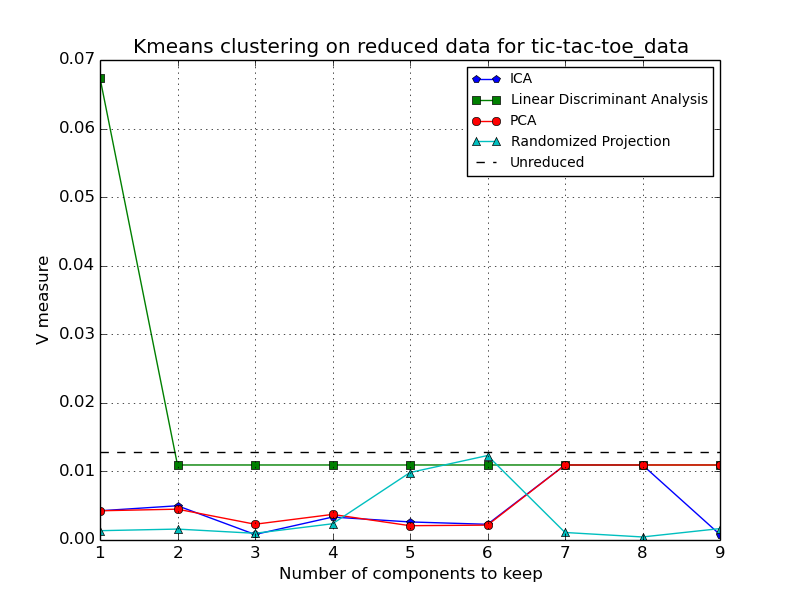
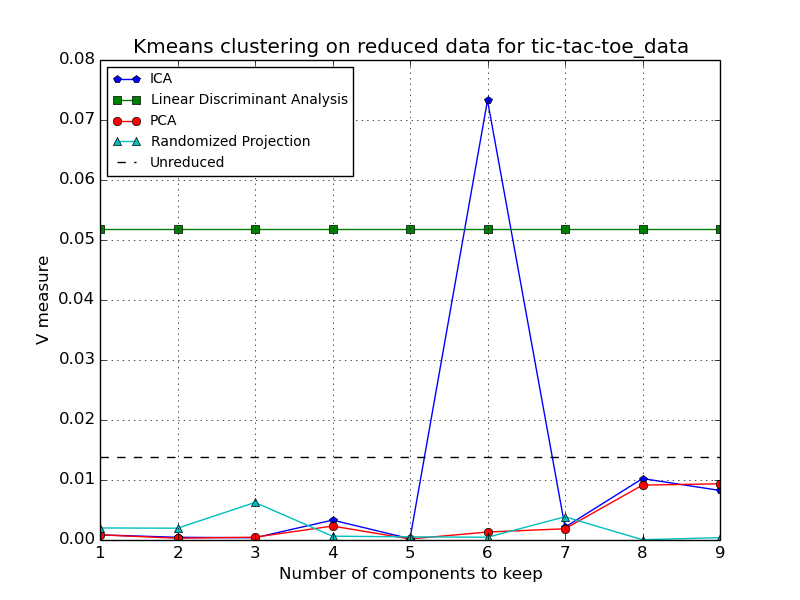
fixed a bug

diff --git a/proj3/experiments.py b/proj3/experiments.py
@@ -251,6 +251,108 @@ def exp3(dataset, n_classes, x, y, ns):
     plt.legend(loc='best', prop=fontP)
     plt.savefig(filename)
 
+def plot_pro_1(x, y, alg, alg_name):
+    pca = alg(n_components=2)
+    reduced_x = pca.fit_transform(x,y)
+    kmeans = KMeans(n_clusters=4)
+    kmeans.fit(reduced_x)
+    h = .02
+    x_min, x_max = reduced_x[:, 0].min() - 1, reduced_x[:, 0].max() + 1
+    y_min, y_max = reduced_x[:, 1].min() - 1, reduced_x[:, 1].max() + 1
+    xx, yy = np.meshgrid(np.arange(x_min, x_max, h), np.arange(y_min, y_max, h))
+    Z = kmeans.predict(np.c_[xx.ravel(), yy.ravel()])
+    Z = Z.reshape(xx.shape)
+    plt.figure()
+    plt.clf()
+    plt.imshow(Z, interpolation='nearest',
+           extent=(xx.min(), xx.max(), yy.min(), yy.max()),
+           cmap=plt.cm.Paired,
+           aspect='auto', origin='lower')
+    ax = plt.subplot(111)
+    label_dict = {0:'unacc', 1:'acc', 2:'good', 3:'vgood'}
+    for label,marker,color in zip(
+        range(0,4),('*', '^', 's', 'o'),('k','blue', 'red', 'green')):
+
+        plt.scatter(x=reduced_x[:,0][y == label],
+                y=reduced_x[:,1][y == label],
+                marker=marker,
+                color=color,
+                alpha=0.5,
+                label=label_dict[label]
+                )
+    centroids = kmeans.cluster_centers_
+    plt.scatter(centroids[:, 0], centroids[:, 1],
+            marker='x', s=169, linewidths=3,
+            color='w', zorder=10)
+    plt.xlim(x_min, x_max)
+    plt.ylim(y_min, y_max)
+    plt.xlabel('Component 1')
+    plt.ylabel('Component 2')
+    fontP = FontProperties()
+    fontP.set_size('small')
+    leg = plt.legend(loc='best', prop=fontP)
+    leg.get_frame().set_alpha(0.5)
+    plt.title(alg_name+': Car projection onto the first 2 principal components')
+    # remove axis spines
+    ax.spines["top"].set_visible(False)  
+    ax.spines["right"].set_visible(False)
+    ax.spines["bottom"].set_visible(False)
+    ax.spines["left"].set_visible(False)    
+    plt.tight_layout
+    plt.grid()
+    plt.savefig("car_cluster_proj_"+alg_name)
+
+def plot_pro_2(x, y, alg, alg_name):
+    pca = alg(n_components=2)
+    reduced_x = pca.fit_transform(x,y)
+    kmeans = KMeans(n_clusters=2)
+    kmeans.fit(reduced_x)
+    h = .02
+    x_min, x_max = reduced_x[:, 0].min() - 1, reduced_x[:, 0].max() + 1
+    y_min, y_max = reduced_x[:, 1].min() - 1, reduced_x[:, 1].max() + 1
+    xx, yy = np.meshgrid(np.arange(x_min, x_max, h), np.arange(y_min, y_max, h))
+    Z = kmeans.predict(np.c_[xx.ravel(), yy.ravel()])
+    Z = Z.reshape(xx.shape)
+    plt.figure()
+    plt.clf()
+    plt.imshow(Z, interpolation='nearest',
+           extent=(xx.min(), xx.max(), yy.min(), yy.max()),
+           cmap=plt.cm.Paired,
+           aspect='auto', origin='lower')
+    ax = plt.subplot(111)
+    label_dict = {1:'positive', 0:'negative'}
+    for label,marker,color in zip(
+        range(0,2),('*', '^'),('k','blue')):
+
+        plt.scatter(x=reduced_x[:,0][y == label],
+                y=reduced_x[:,1][y == label],
+                marker=marker,
+                color=color,
+                alpha=0.5,
+                label=label_dict[label]
+                )
+    centroids = kmeans.cluster_centers_
+    plt.scatter(centroids[:, 0], centroids[:, 1],
+            marker='x', s=169, linewidths=3,
+            color='w', zorder=10)
+    plt.xlim(x_min, x_max)
+    plt.ylim(y_min, y_max)
+    plt.xlabel('Component 1')
+    plt.ylabel('Component 2')
+    fontP = FontProperties()
+    fontP.set_size('small')
+    leg = plt.legend(loc='best', prop=fontP)
+    leg.get_frame().set_alpha(0.5)
+    plt.title(alg_name+': Tic-Tac-Toe projection onto the first 2 principal components')
+    # remove axis spines
+    ax.spines["top"].set_visible(False)  
+    ax.spines["right"].set_visible(False)
+    ax.spines["bottom"].set_visible(False)
+    ax.spines["left"].set_visible(False)    
+    plt.tight_layout
+    plt.grid()
+    plt.savefig("ttt_cluster_proj_"+alg_name)
+
 if __name__=='__main__':
     np.random.seed(42)
     dataset1 = 'car.data' # 6 attributes 4 classes
@@ -271,22 +373,23 @@ if __name__=='__main__':
     scaler = StandardScaler(with_mean=False)
     X = scaler.fit_transform(x)
     exp3(dataset1, 4, X, y, ns)
-
+    plot_pro_1(X, y, LinearDiscriminantAnalysis ,'LDA')
 
     dataset2 = 'tic-tac-toe.data' # 9 attributes 2 classes
     print("-----------------------------------Dataset 2--------------------------------------")
-    x, y = load_data2(dataset2,attributes=10)
+    x, y = load_data(dataset2,attributes=10)
     x_train, x_test, y_train, y_test = split_train_test(x, y, 0.2)
     dataset2 = dataset2.replace('.', '_')
 
     print("--------------------------Experiment 1------------------------------")
     ks = [2,3,4,5]
-#    clustering(dataset2, x, y, ks)
+    clustering(dataset2, x, y, ks)
 
     print("--------------------------Experiment 2------------------------------")
     ns = [1,2,3,4,5,6,7,8,9]
-#    dimension_reduction(dataset2, x, y, ns)
+    dimension_reduction(dataset2, x, y, ns)
 
     print("--------------------------Experiment 3------------------------------")
     X = scaler.fit_transform(x)
     exp3(dataset2, 2, X, y, ns)
+    plot_pro_2(X, y, PCA, 'PCA')
